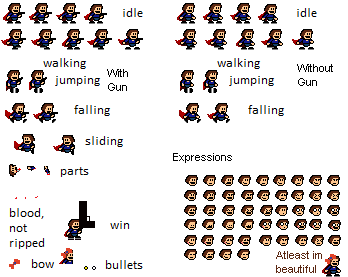
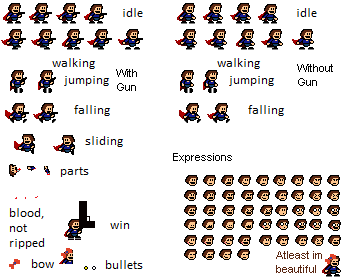
A wee change on Jump sprites

Changed region(s): [[0.0, 0.2022, 0.4023, 0.3466]]

diff --git a/player_settings.py b/player_settings.py
@@ -35,8 +35,8 @@ WALK5 = Sprite([118, 29, 25, 21], 348, WALK_FPS-1)
 WALK = [WALK1, WALK2, WALK3, WALK4, WALK5]
 WALK_LEN = len(WALK)
 
-JUMP1 = Sprite([6, 70, 17, 23], 348)
-JUMP2 = Sprite([29, 70, 18, 23], 348)
+JUMP1 = Sprite([2, 70, 25, 23], 348)
+JUMP2 = Sprite([31, 70, 25, 23], 348)
 JUMP = [JUMP1, JUMP2]
 JUMP_LEN = len(JUMP)
 
